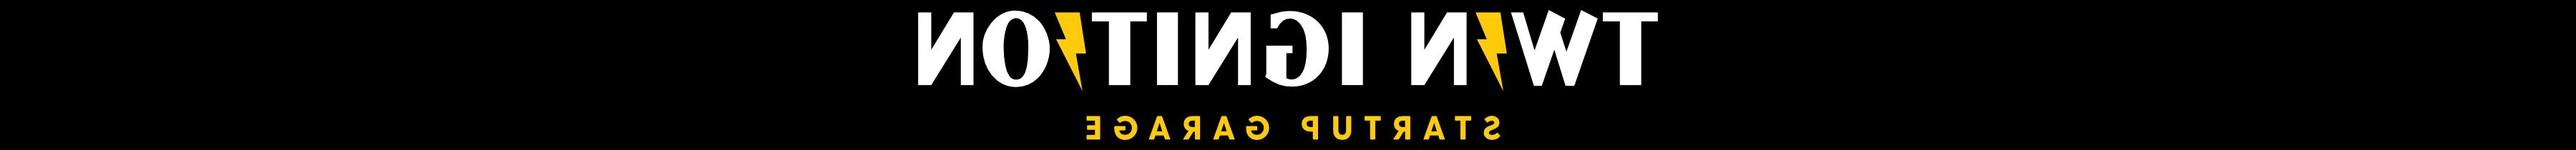
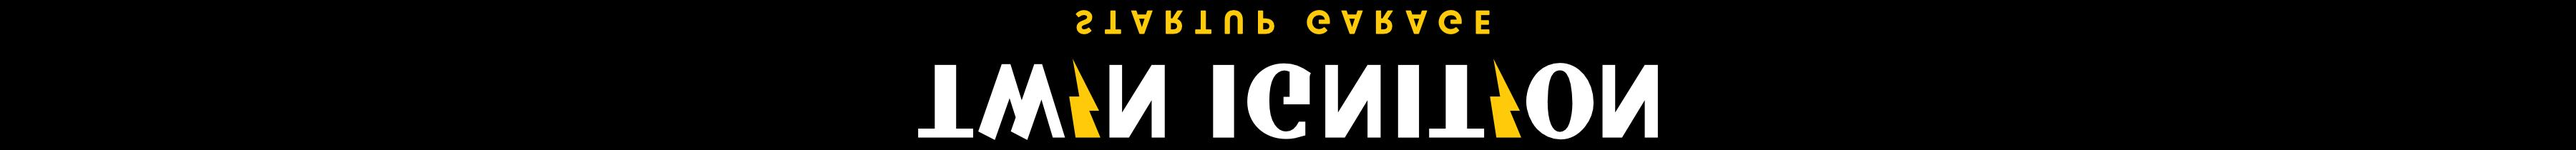
twin

Changed region(s): [[0.3422, 0.0571, 0.6533, 0.9429]]

diff --git a/utils.py b/utils.py
@@ -8,7 +8,7 @@ def restructureImage(img, outputFileName, panels=6):
         img = np.array(img)
         img_top = img[:int(img.shape[0] / 3) , :img.shape[1], :]
         img_middle = img[int(img.shape[0] / 3) : int(img.shape[0] / 3) * 2, :img.shape[1], :]
-        img_middle = np.flip(img_middle, axis=1)
+        img_middle = np.flip(img_middle, axis=0)
         img_bottom = img[int(img.shape[0] / 3) * 2 : , :img.shape[1], :]
         
         stitched_img = np.empty((img_top.shape[0], img_top.shape[1] * 3, img_top.shape[2]))
